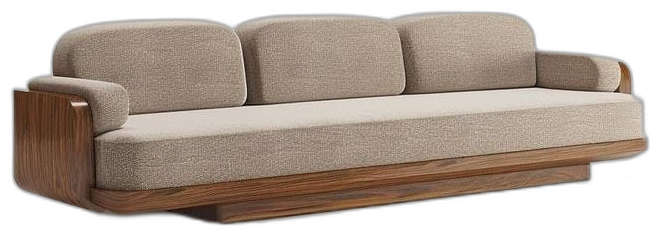
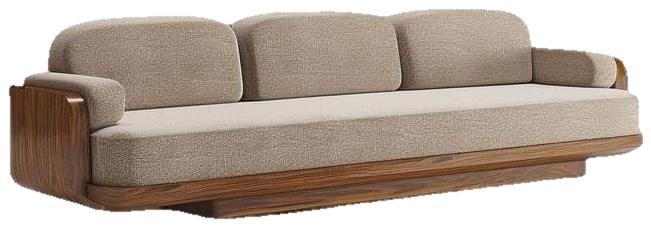
Fix grey halo on the sofa cutout edges
The rembg output had translucent edge pixels still tinted by the original
grey studio backdrop, which only became visible once the hero background
changed to beige. Decontaminated edge colors by pulling RGB from the
nearest fully-opaque pixel, then tightened and re-feathered the alpha mask.

diff --git a/web/index.html b/web/index.html
@@ -1186,7 +1186,7 @@
       </div>
 
       <div class="hero-visual">
-        <img src="assets/sofahero_cutout.png" alt="Sofá tapizado Ansulais" width="659" height="235" loading="eager">
+        <img src="assets/sofahero_cutout.png" alt="Sofá tapizado Ansulais" width="651" height="227" loading="eager">
       </div>
 
       <p class="hero-desc">
